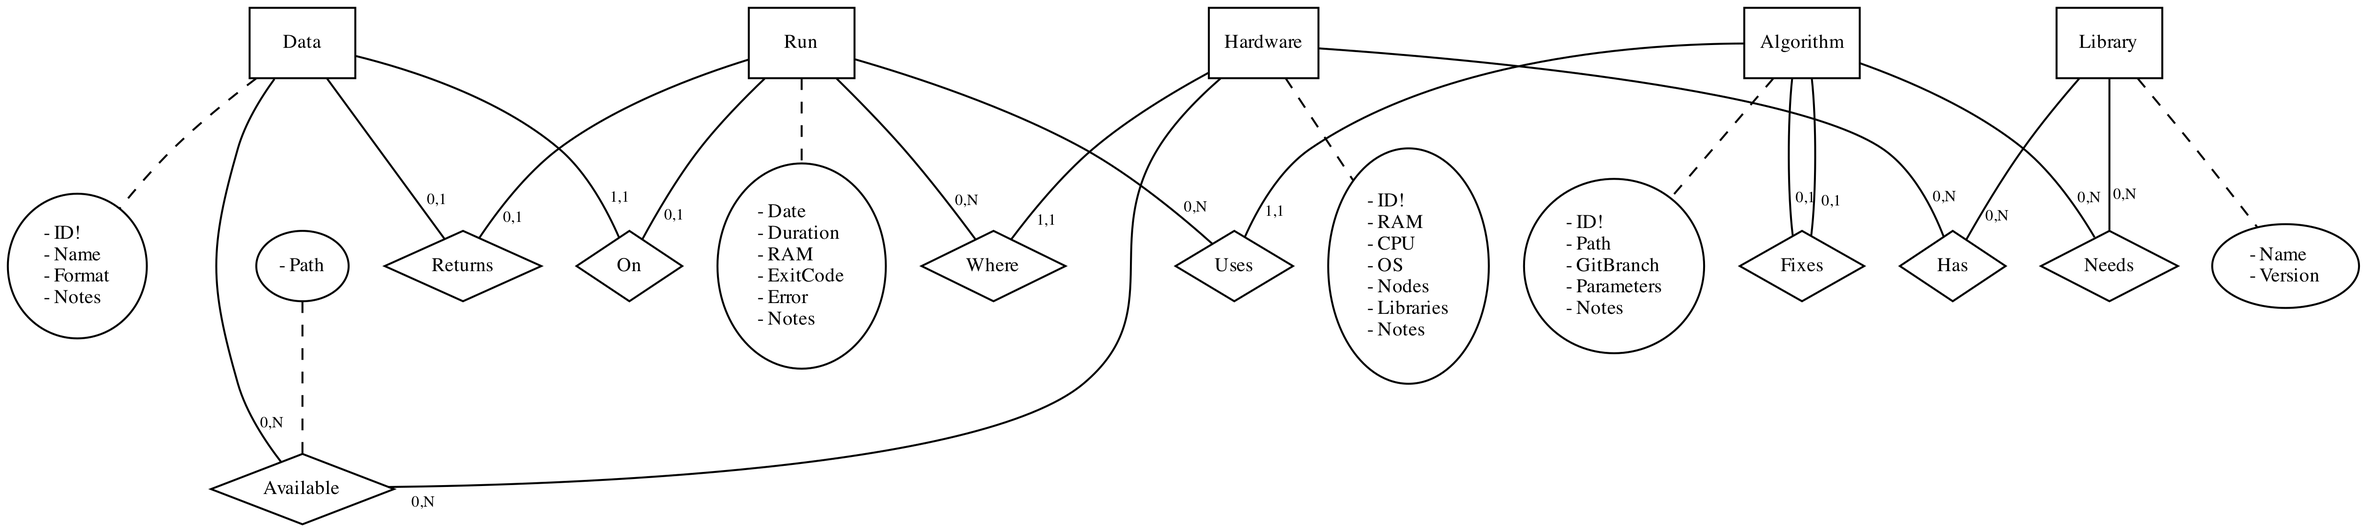
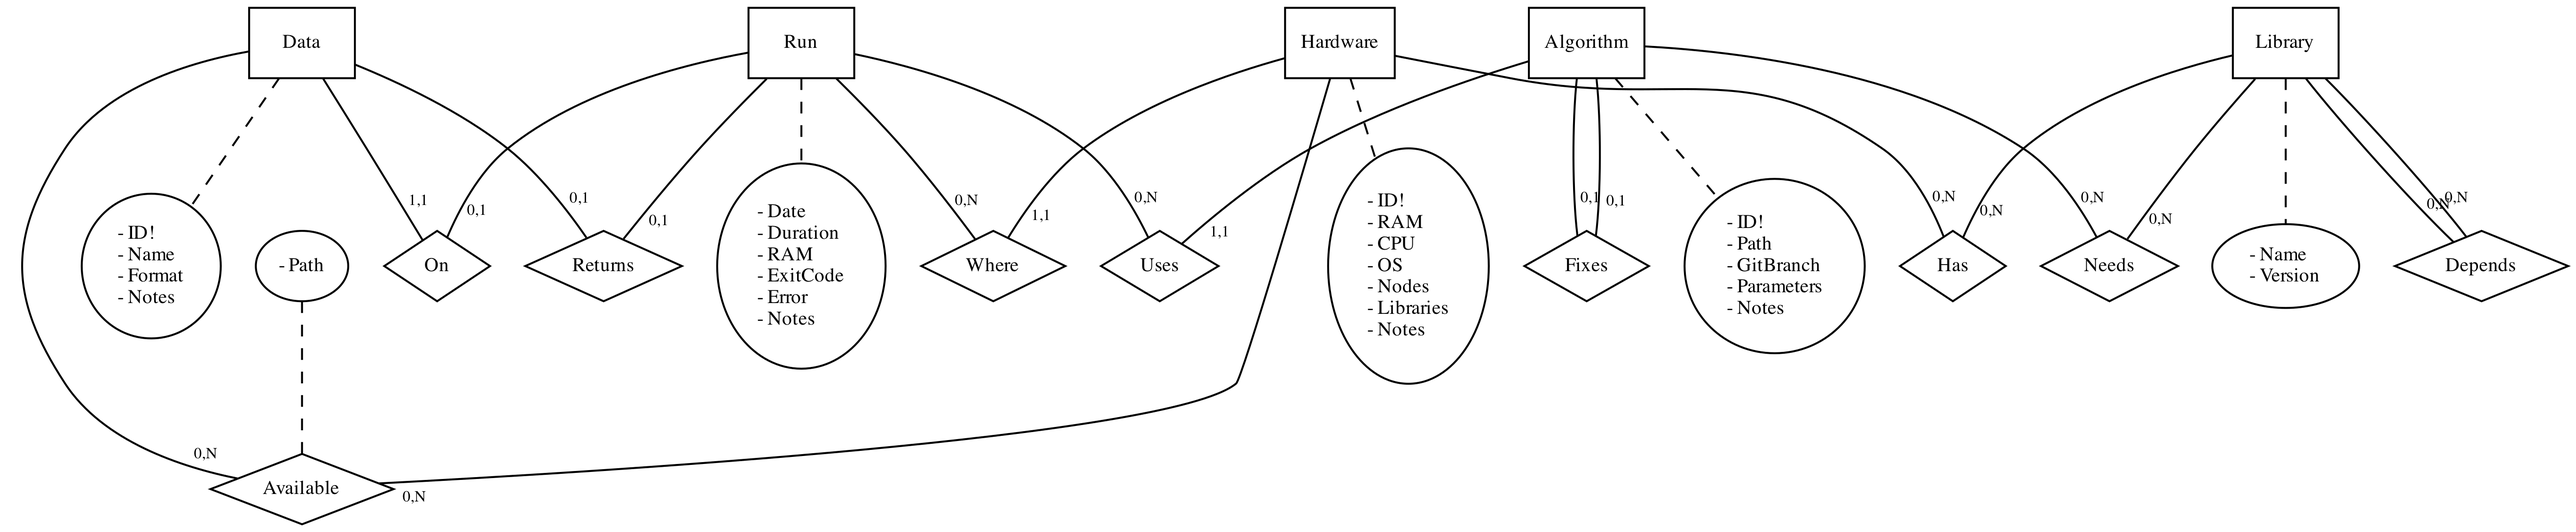
aggiunta relazione su Library. concettuale2->ristrutturato

diff --git a/concettuale2.py b/concettuale2.py
@@ -55,6 +55,7 @@ make_relation('Returns', 'Run', 'Data', (0, 1), (0, 1))
 make_relation('Fixes', 'Algorithm', 'Algorithm', (0, 1), (0, 1))
 make_relation('Has', 'Hardware', 'Library', (0, 'N'), (0, 'N'))
 make_relation('Needs', 'Algorithm', 'Library', (0, 'N'), (0, 'N'))
+make_relation('Depends', 'Library', 'Library', (0, 'N'), (0, 'N'))
 
 # random constraints
 graph.add_edge('Data', available_label, style='invis')
@@ -63,4 +64,4 @@ A = to_agraph(graph)
 A.layout('dot')
 A.graph_attr['nodesep'] = 10
 A.graph_attr['dpi'] = 300
-A.draw('res/schema_concettuale2.png')
+A.draw('res/schema_concettuale_ristrutturato.png')

diff --git a/concettuale.py b/concettuale.py
@@ -73,6 +73,7 @@ make_relation('With', 'Run', 'Parameters', (0, 'N'), (1, 1))
 make_relation('Fixes', 'Algorithm', 'Algorithm', (0, 1), (0, 1))
 make_relation('Has', 'Hardware', 'Library', (0, 'N'), (0, 'N'))
 make_relation('Needs', 'Algorithm', 'Library', (0, 'N'), (0, 'N'))
+make_relation('Depends', 'Library', 'Library', (0, 'N'), (0, 'N'))
 
 # random constraints
 graph.add_edge('Data', available_label, style='invis')
